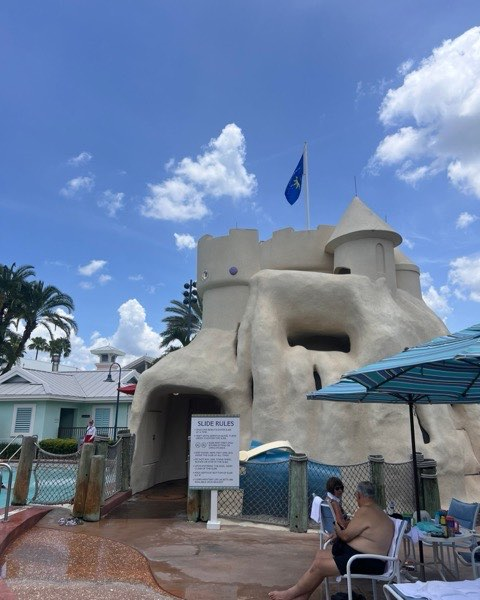
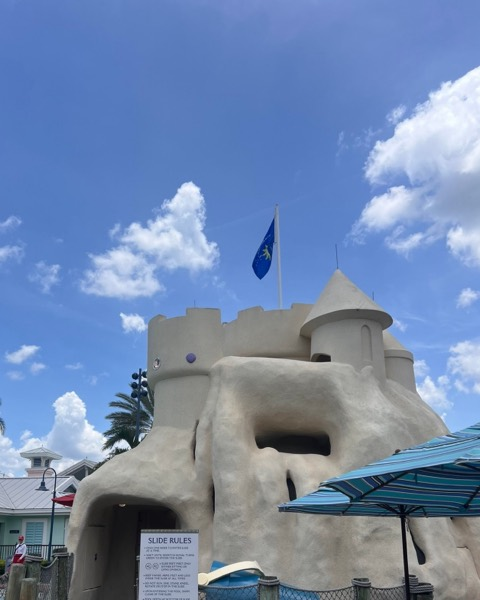
Crop the sun loungers out of the Old Key West card
The app is a public site, so a photo in it is visible to anyone with the
address. Tightening the frame onto the castle drops the two closest
guests; no face left in the repo is legible at the size it is served.

diff --git a/index.html b/index.html
@@ -445,7 +445,7 @@ function load(){try{const r=localStorage.getItem(KEY);if(r)db=JSON.parse(r);}cat
   let mig=false;const km={};db.trips.forEach(t=>{if(!t.bid){const k=(t.resort||'')+'|'+(t.dates||'')+'|'+t.uy;if(!km[k])km[k]=uid();t.bid=km[k];mig=true;}});if(mig)save();}
 function save(){try{localStorage.setItem(KEY,JSON.stringify(db));}catch(e){alert('Could not save — storage may be full (photos use space).');}}
 function uid(){return Date.now().toString(36)+Math.random().toString(36).slice(2,6);}
-const BUILD='2026.11.22-9';  /* bump when shipping — shown in the footer so a stale cached copy is identifiable */
+const BUILD='2026.11.22-10';  /* bump when shipping — shown in the footer so a stale cached copy is identifiable */
 const UY_MONTH={February:2,March:3,April:4,June:6,August:8,September:9,October:10,December:12};
 function bankingDeadline(m,y){const s=UY_MONTH[m];if(!s)return null;let mo=s+8,yy=y;if(mo>12){mo-=12;yy+=1;}const M=['January','February','March','April','May','June','July','August','September','October','November','December'];return M[mo-1]+' 1, '+yy;}
 function lastDay(m,y){return new Date(y,m,0).getDate();}
